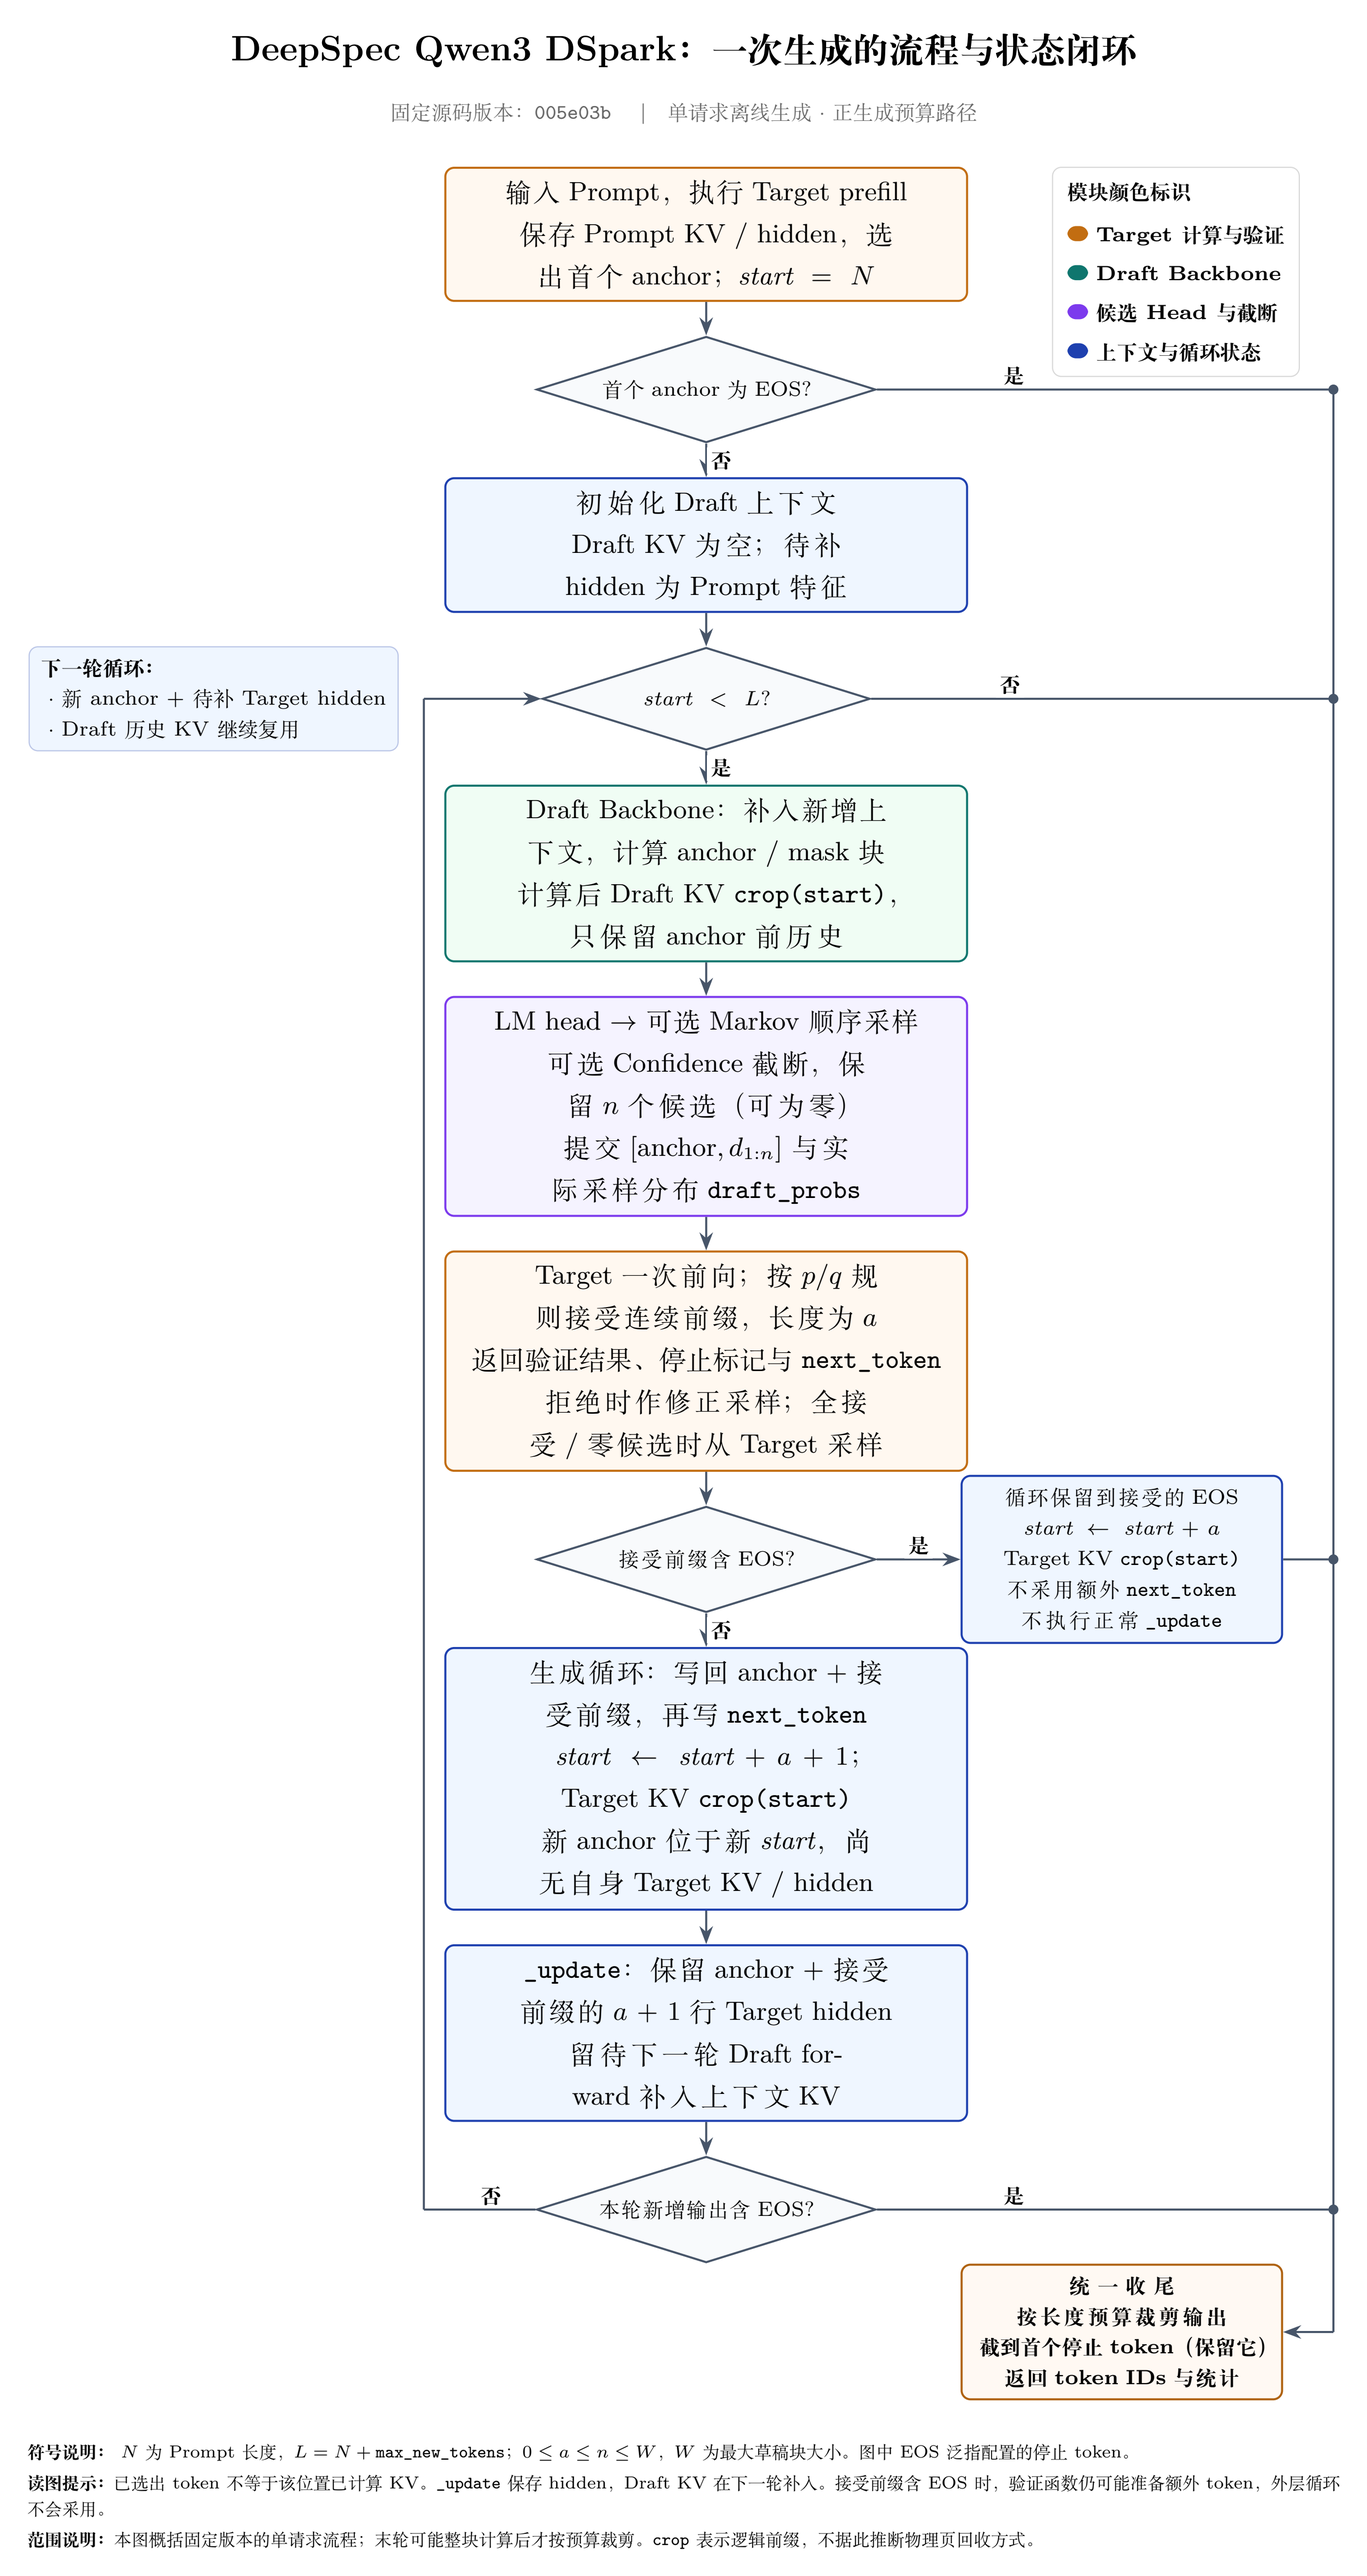
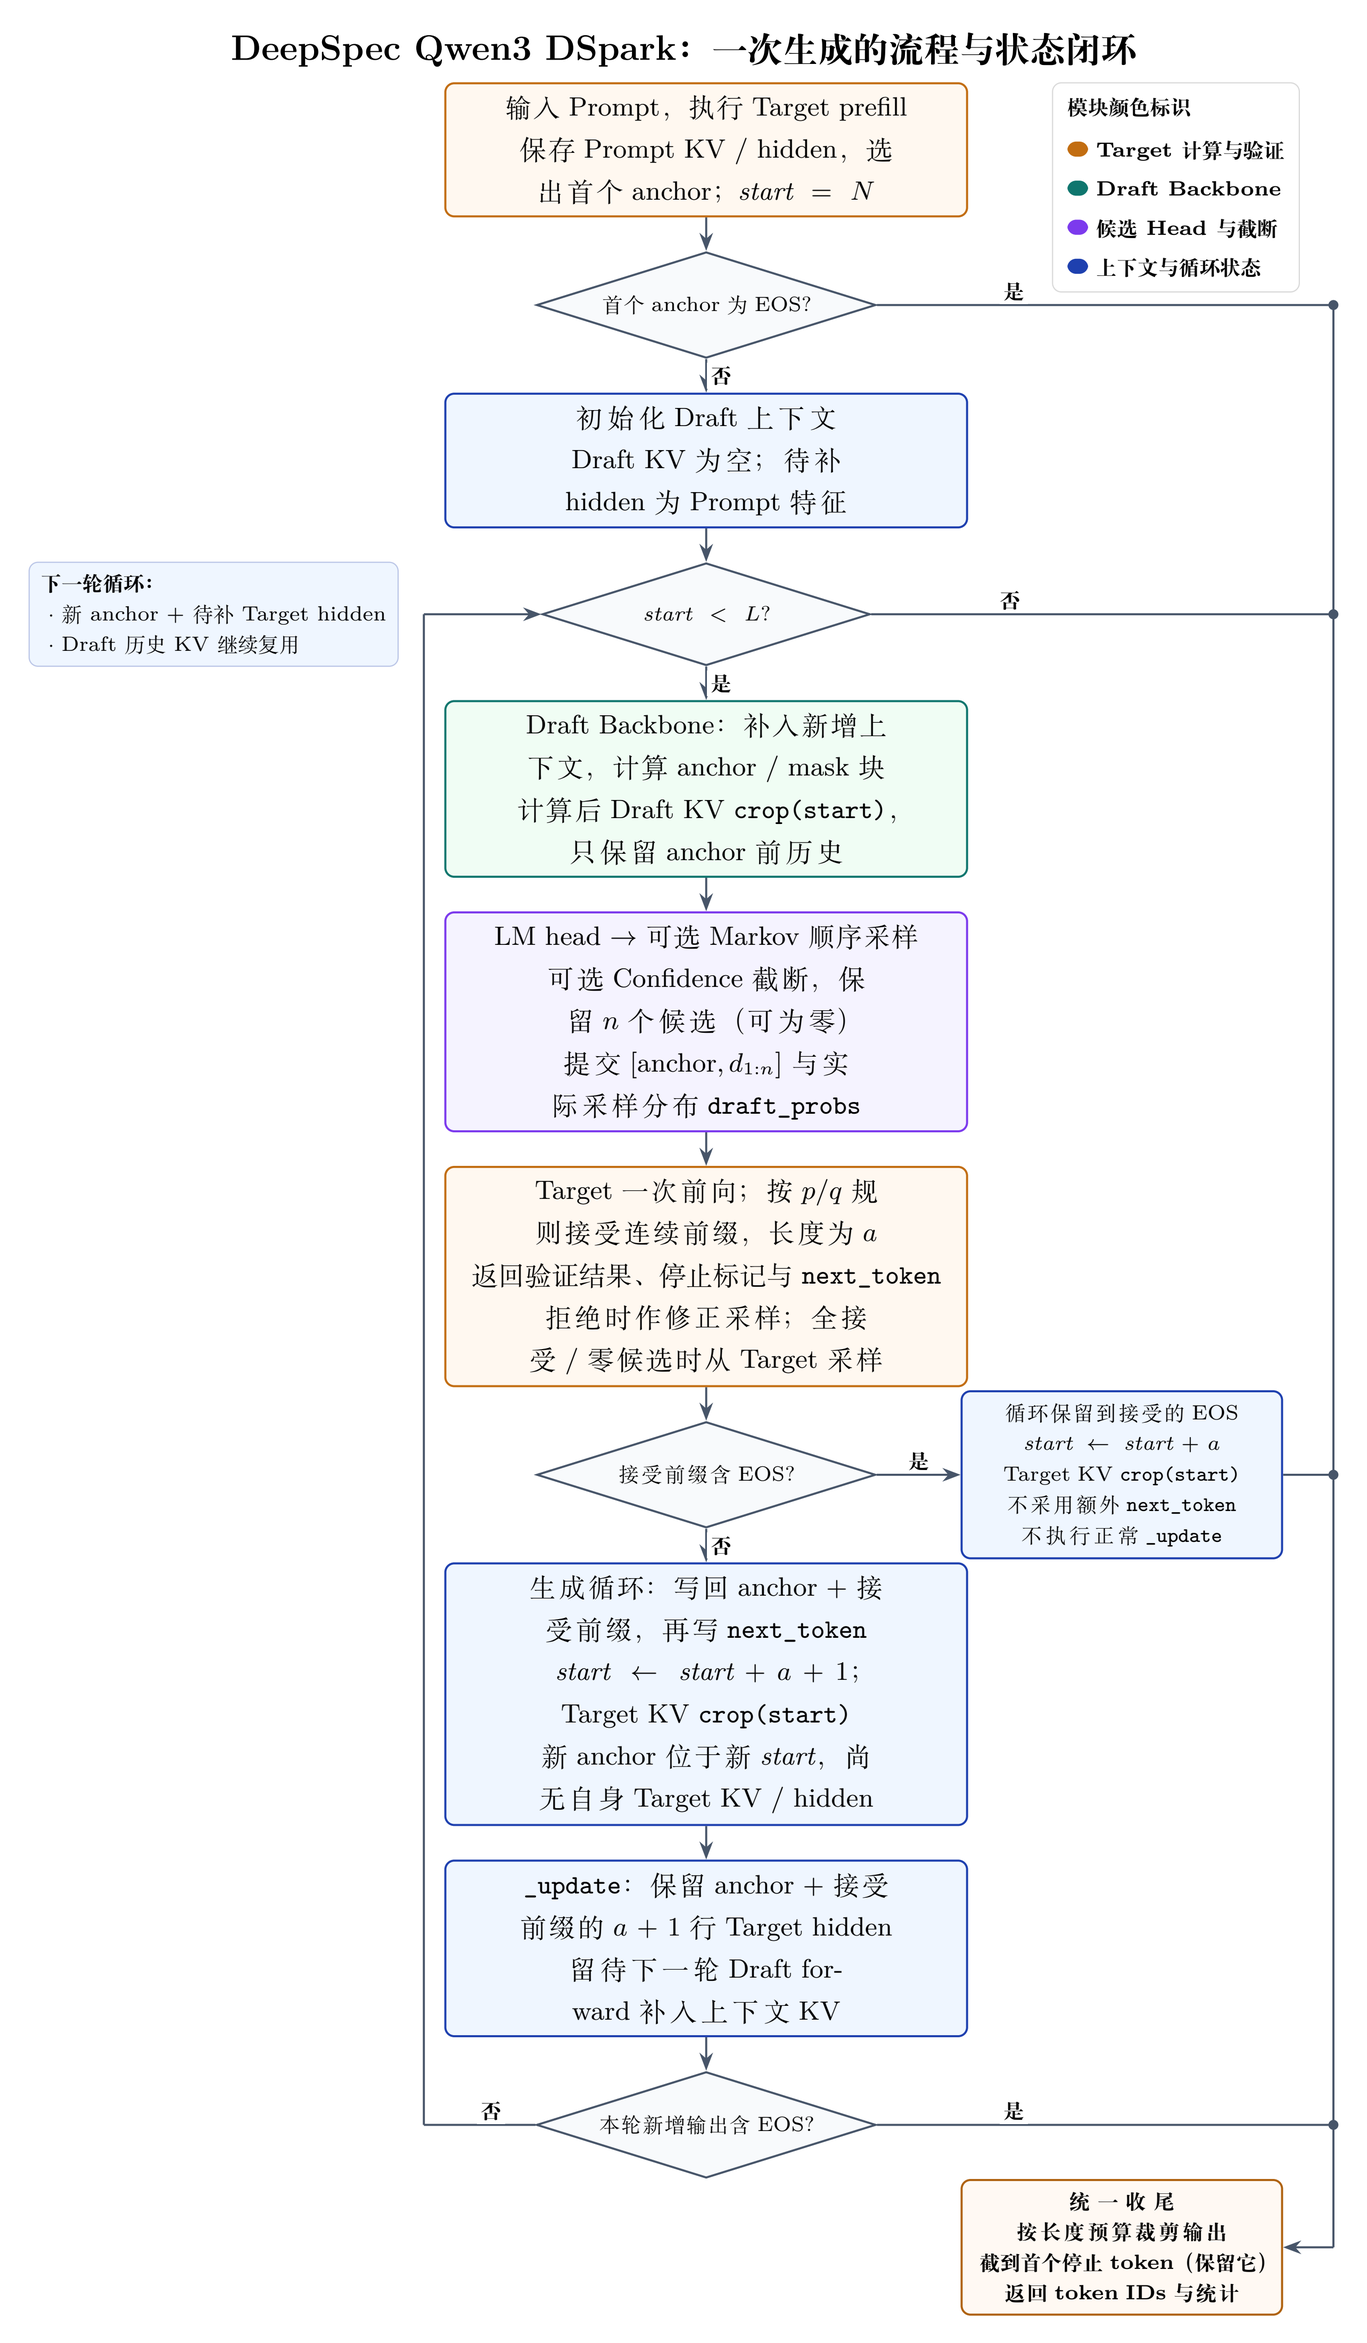
修改流程图

diff --git a/content/papers/dspark-source-analysis.md b/content/papers/dspark-source-analysis.md
@@ -282,7 +282,7 @@ vLLM、SGLang 的请求调度、分页缓存和异步执行目前没有同时进
 
 [![DeepSpec Qwen3 DSpark：一次生成的完整流程与状态闭环](/images/papers/dspark/deepspec-generation-flow.png)](/images/papers/dspark/deepspec-generation-flow.png)
 
-*全文流程总览：包含正常生成回路、缓存更新、EOS 与长度终止分支。点击图片可查看高清原图。*
+*全文流程总览：包含正常生成回路、缓存更新、EOS 与长度终止分支。*
 
 ## 源码入口
 
